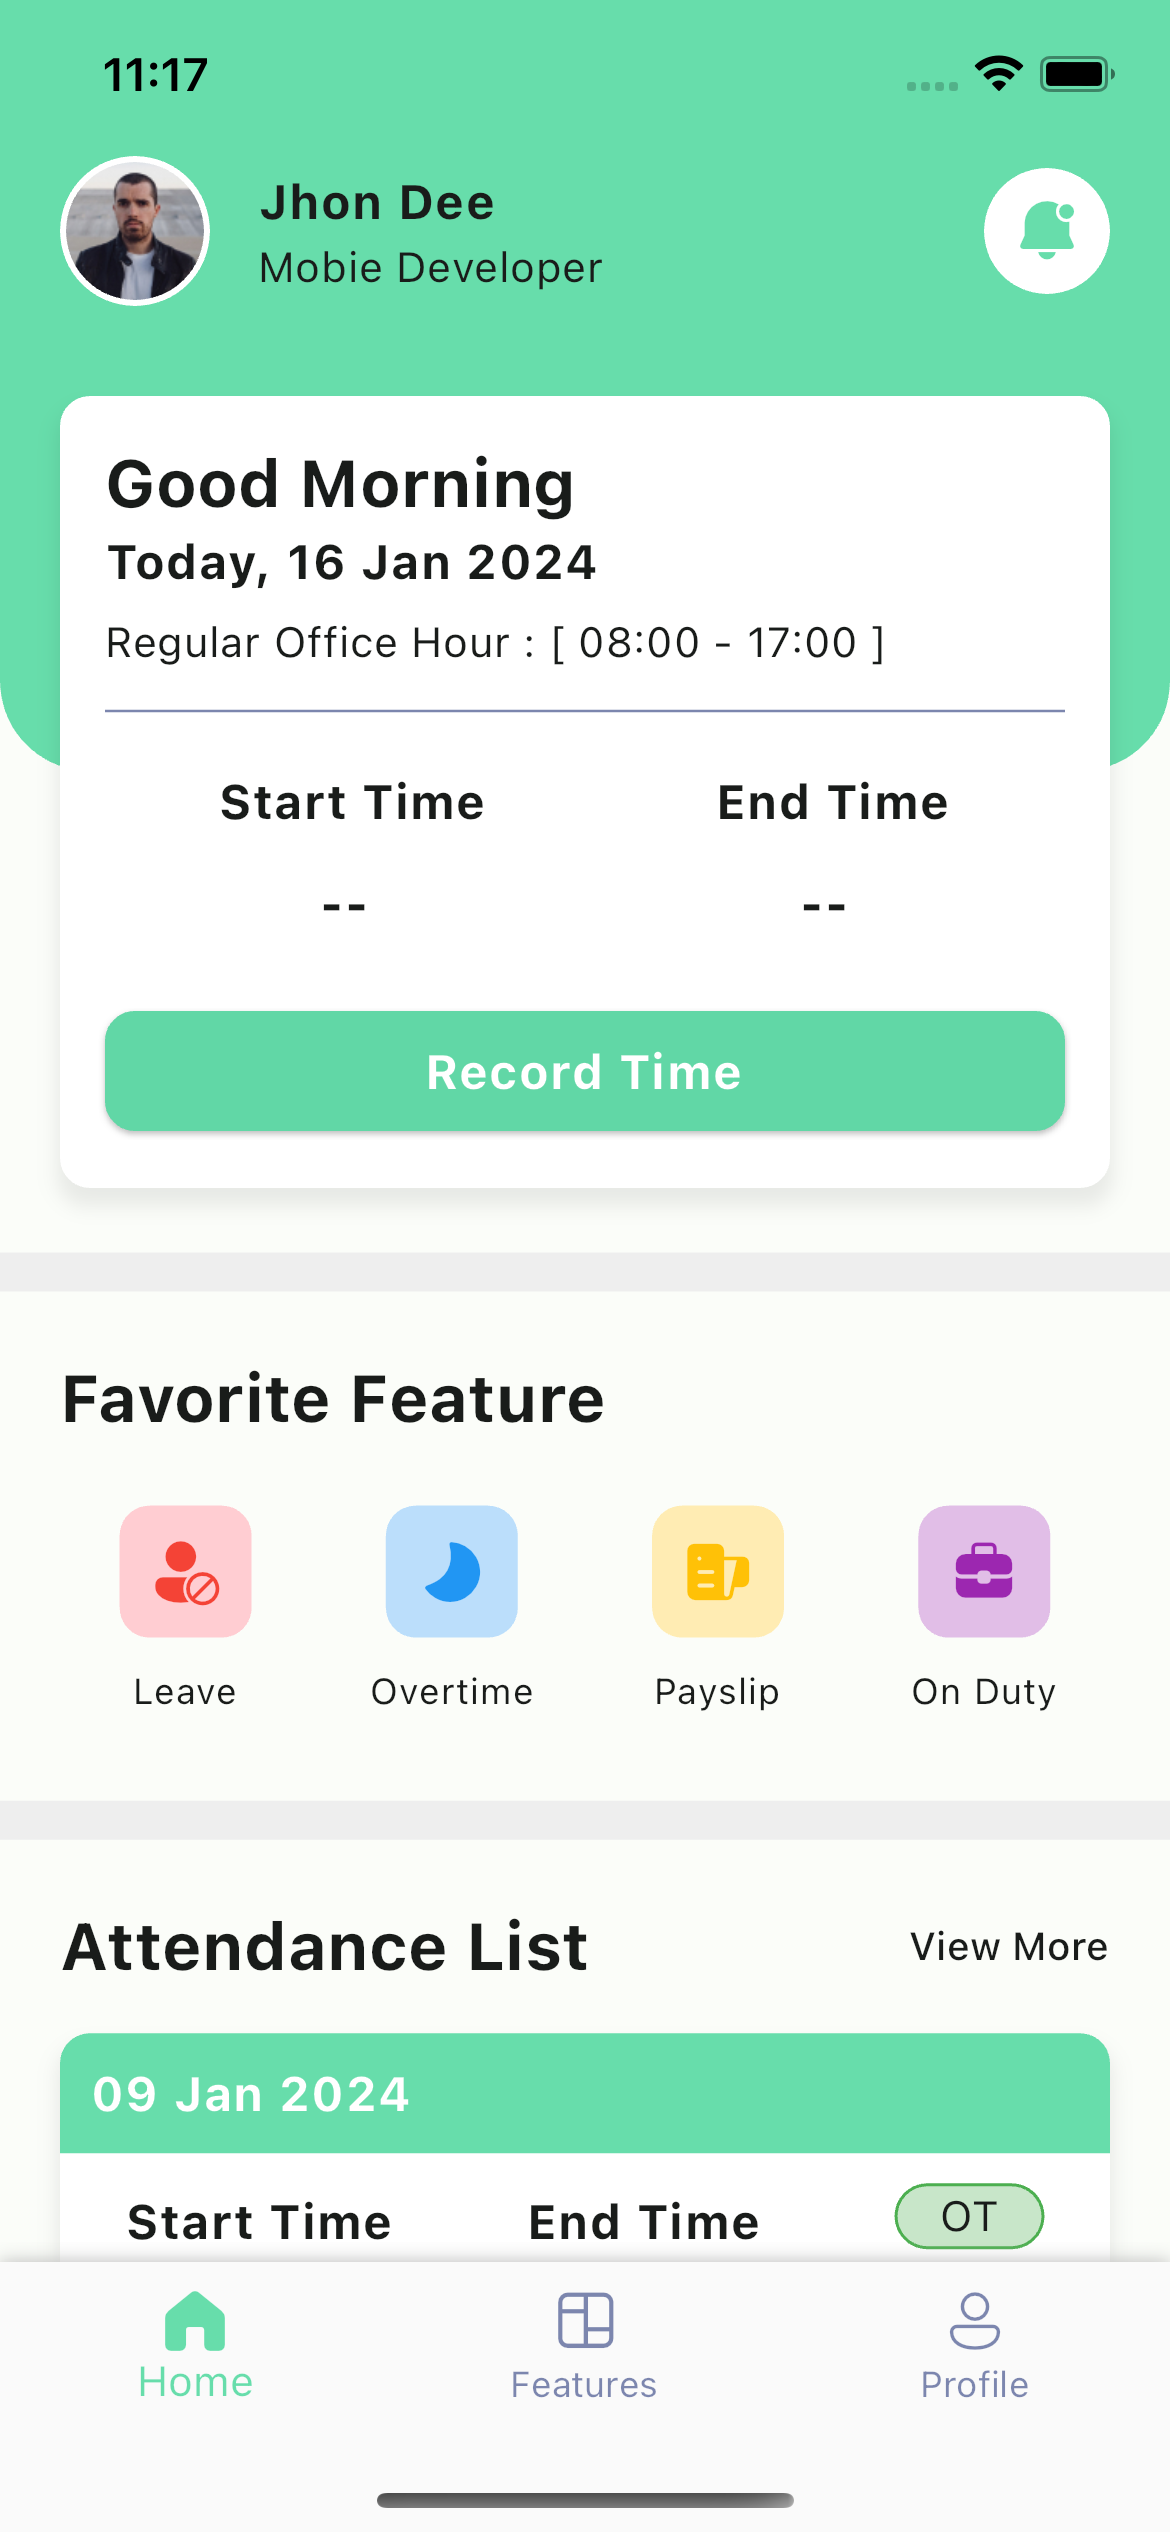
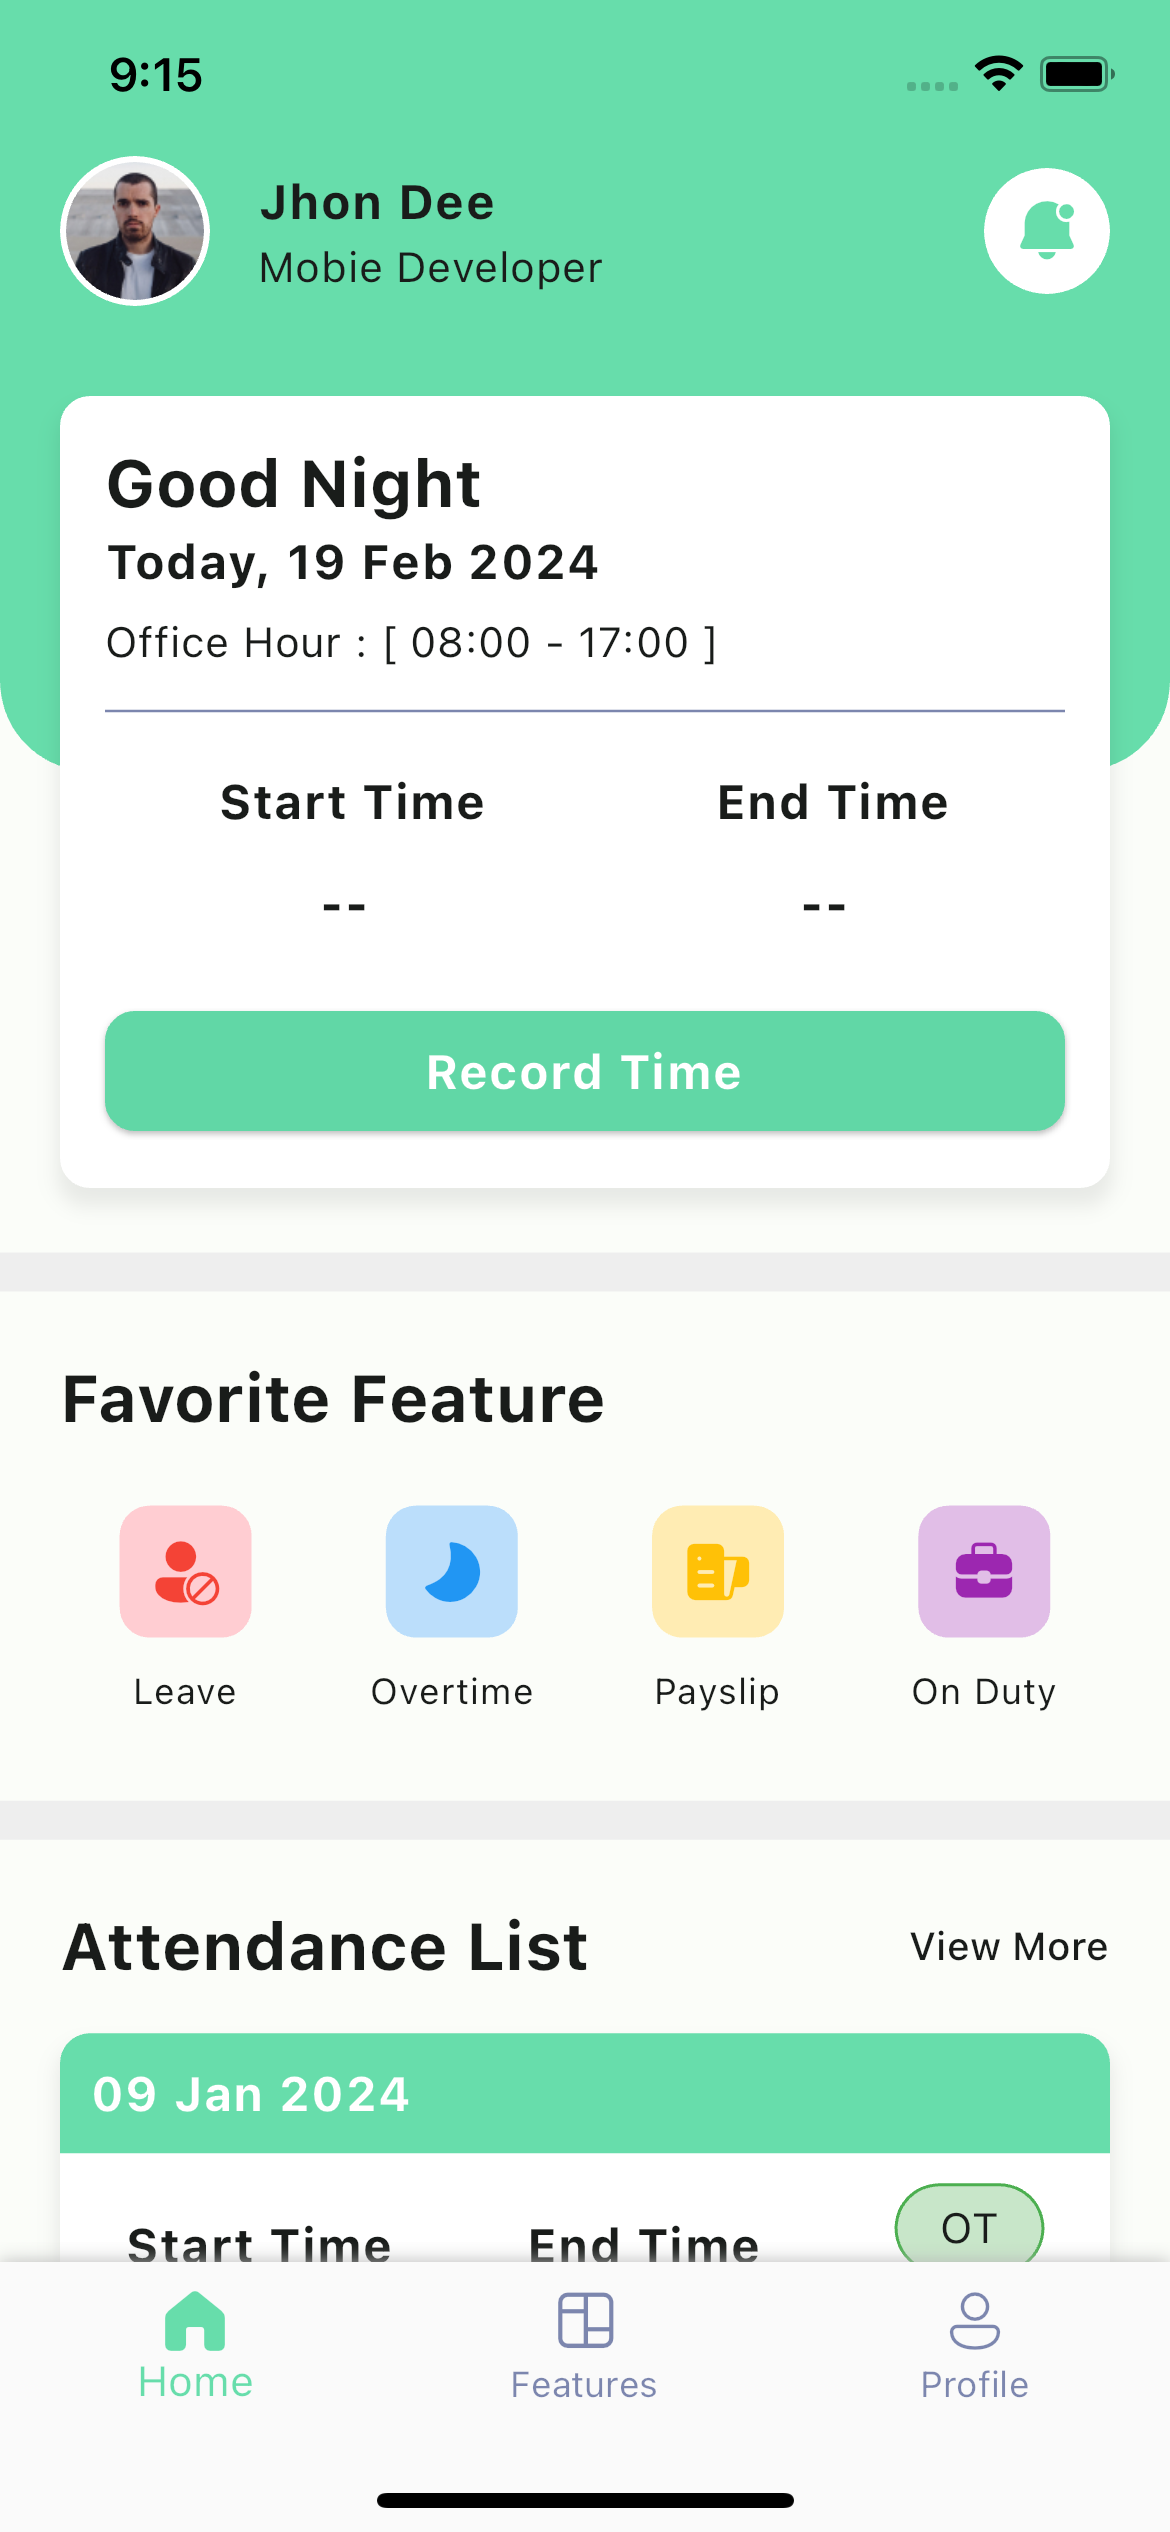
refactor code & change ss

diff --git a/lib/models/all_feature_model.dart b/lib/models/all_feature_model.dart
@@ -41,18 +41,6 @@ List<AllFeatureModel> allFeatureModel = [
     title: 'Leave',
   ),
   AllFeatureModel(
-    icon: FluentIcons.backpack_28_filled,
-    color: Colors.red,
-    bgColor: Colors.red.shade100,
-    title: 'Leave Balance',
-  ),
-  AllFeatureModel(
-    icon: FluentIcons.calendar_arrow_counterclockwise_28_filled,
-    color: Colors.red,
-    bgColor: Colors.red.shade100,
-    title: 'Leave Calendar',
-  ),
-  AllFeatureModel(
     icon: FluentIcons.weather_moon_24_filled,
     color: Colors.blue,
     bgColor: Colors.blue.shade100,

diff --git a/lib/utils/constants/styles.dart b/lib/utils/constants/styles.dart
@@ -46,14 +46,3 @@ final ButtonStyle outlineButtonStyle = OutlinedButton.styleFrom(
   ),
   textStyle: const TextStyle(fontWeight: FontWeight.bold),
 );
-
-final ButtonStyle transparentButtonStyle = OutlinedButton.styleFrom(
-  foregroundColor: kWhite,
-  backgroundColor: kWhite.withOpacity(0.25),
-  side: const BorderSide(color: kWhite, width: 1),
-  shape: const RoundedRectangleBorder(
-    borderRadius: BorderRadius.all(Radius.circular(10)),
-  ),
-  minimumSize: Size.zero,
-  padding: const EdgeInsets.all(7),
-);

diff --git a/lib/pages/main/home/home.dart b/lib/pages/main/home/home.dart
@@ -151,7 +151,7 @@ class _HomeState extends State<Home> {
                           ),
                           const SizedBox(height: 5),
                           Text(
-                            'Regular Office Hour : [ 08:00 - 17:00 ]',
+                            'Office Hour : [ 08:00 - 17:00 ]',
                             style: Theme.of(context).textTheme.bodyMedium,
                           ),
                           const SizedBox(height: 5),

diff --git a/lib/models/profile_menu_model.dart b/lib/models/profile_menu_model.dart
@@ -29,6 +29,11 @@ List<ProfileMenuModel> profileMenuModel = <ProfileMenuModel>[
     trailing: 'id',
   ),
   ProfileMenuModel(
+    icon: Icons.info_outline,
+    title: 'App Info',
+    trailing: 'null',
+  ),
+  ProfileMenuModel(
     icon: Icons.exit_to_app_rounded,
     title: 'Logout',
     trailing: 'null',
